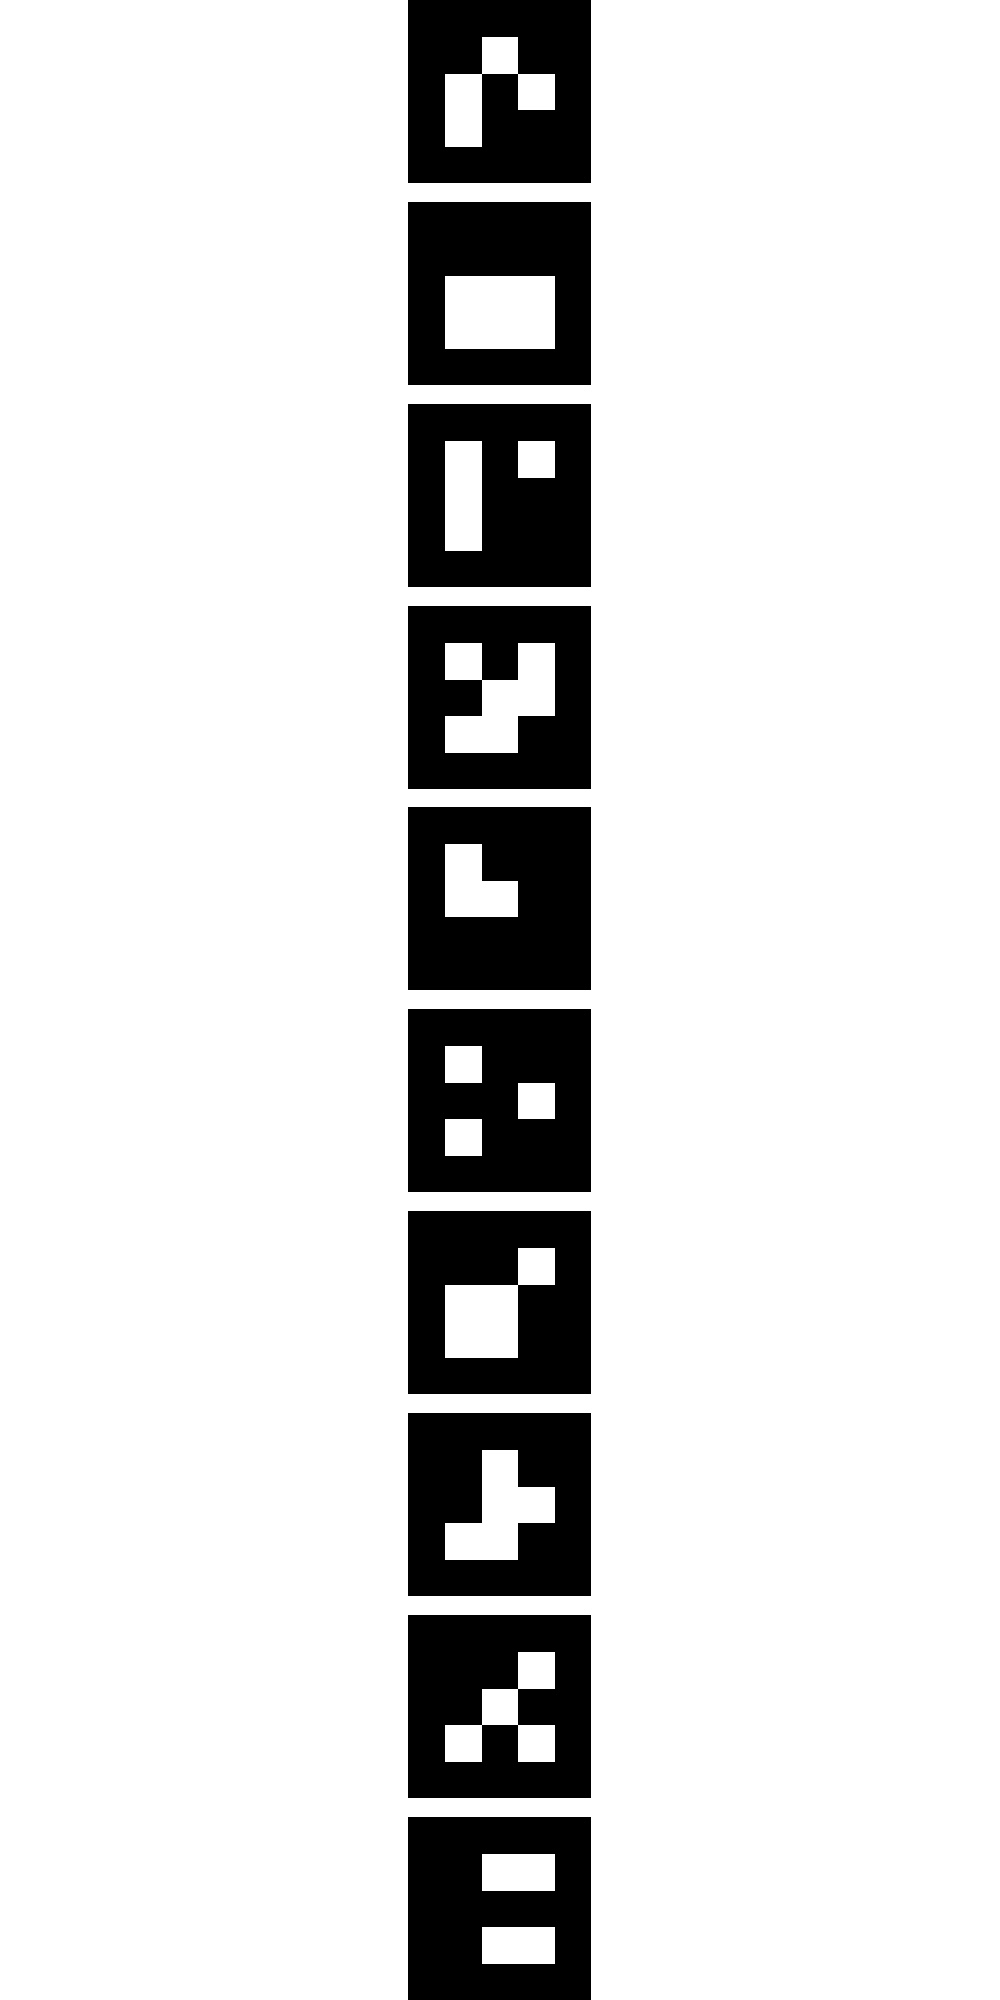
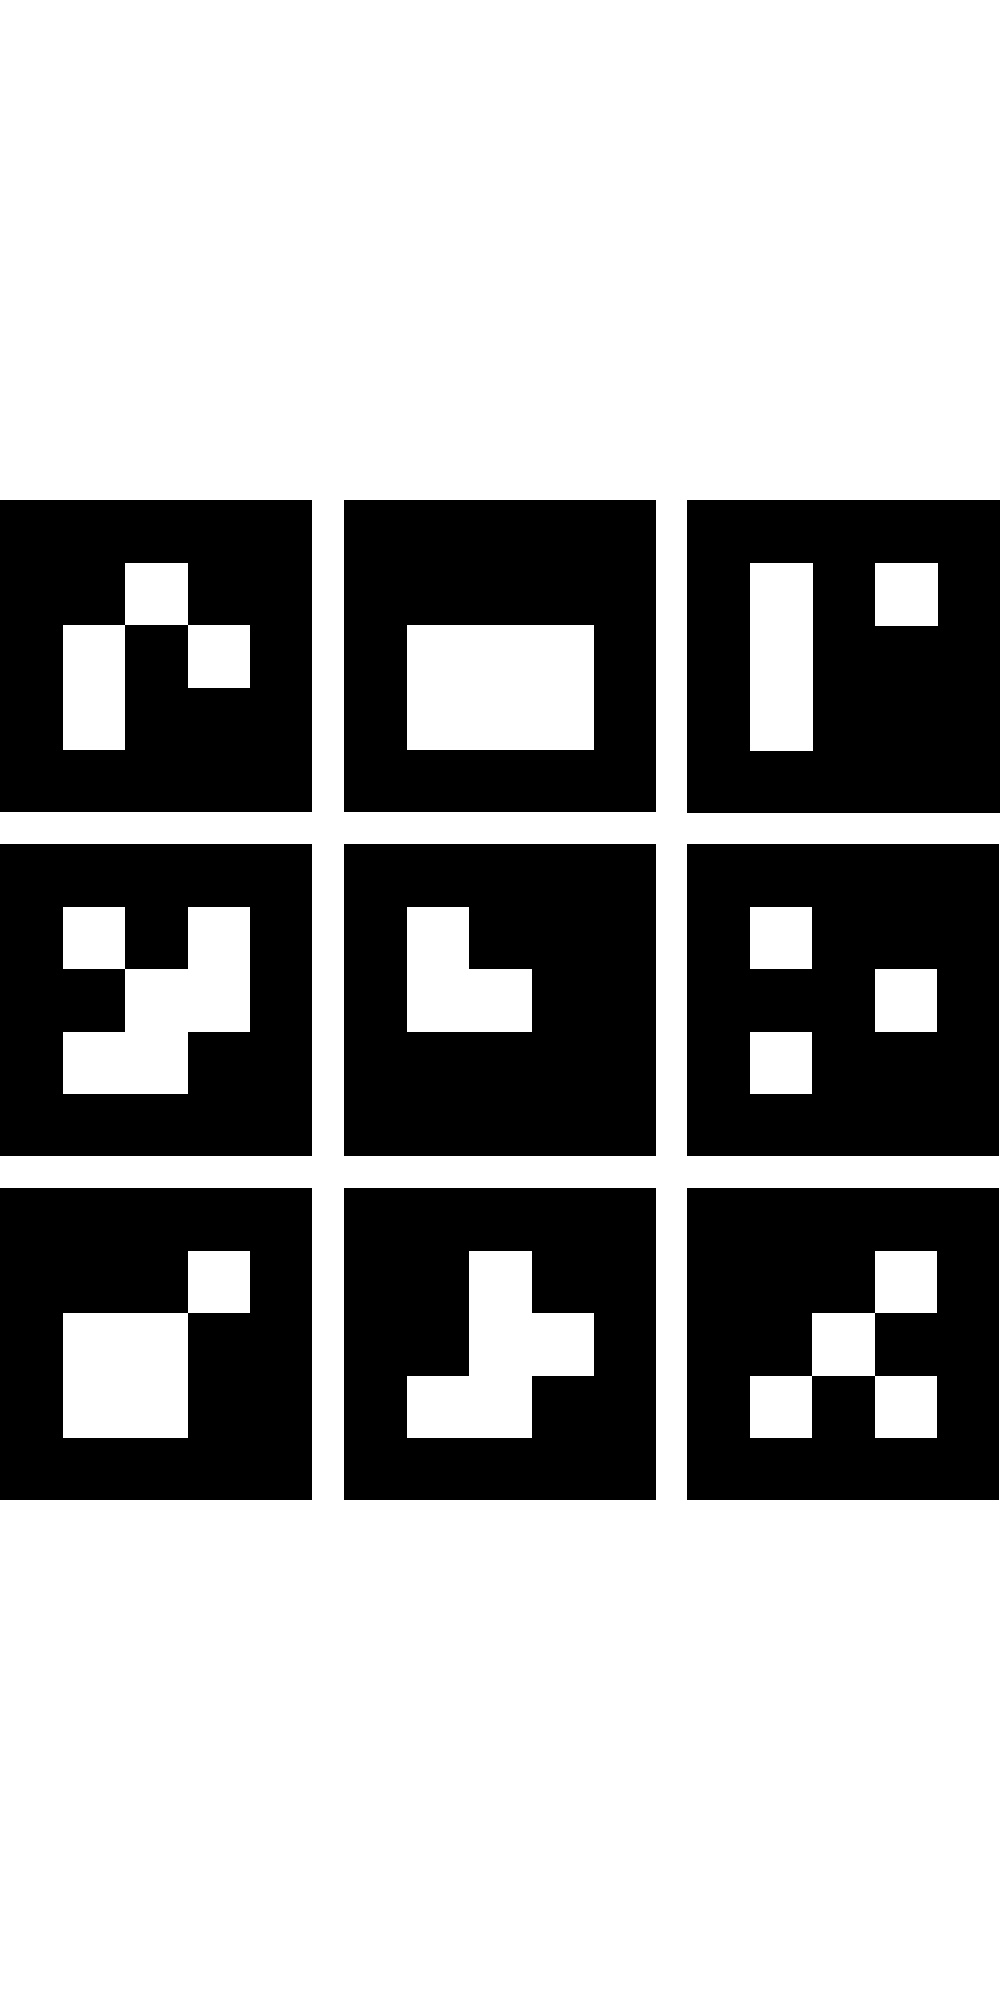
add collect data readme

diff --git a/Deep Learning/testCamera.py b/Deep Learning/testCamera.py
@@ -1,0 +1,34 @@
+import numpy as np
+import cv2
+import os
+import glob
+import copy
+
+CAMERA_LEFT = 1
+CAMERA_MID = 2
+CAMERA_RIGHT = 3
+
+if __name__ == '__main__':
+    cap_L = cv2.VideoCapture(CAMERA_LEFT)
+    cap_M = cv2.VideoCapture(CAMERA_MID)
+    cap_R = cv2.VideoCapture(CAMERA_RIGHT)
+    flag_L, frame_L = cap_L.read()
+    flag_M, frame_M = cap_M.read()
+    flag_R, frame_R = cap_R.read()
+    if (flag_L and flag_M and flag_R):
+        while(True):
+            flag_L, frame_L = cap_L.read()
+            flag_M, frame_M = cap_M.read()
+            flag_R, frame_R = cap_R.read()
+            frame = np.concatenate((frame_L, frame_M, frame_R), axis=1)
+            frame = cv2.resize(frame, (300, 300))
+            cv2.putText(frame, "Left", (50, 150), 0, 1, (255, 0, 0), 3)
+            cv2.putText(frame, "Mid", (150, 150), 0, 1, (255, 0, 0), 3)
+            cv2.putText(frame, "Right", (250, 150), 0, 1, (255, 0, 0), 3)
+            cv2.imshow('frame', frame)
+            if cv2.waitKey(1) & 0xFF == ord('q'):
+                break
+        cap_1.release()
+        cv2.destroyAllWindows()
+    else:
+        print('Left Camera:%r, Mid Camera:%r, Right Camera:%r' % (flag_L, flag_M, flag_R))

diff --git a/Aruco/Analyze/main.py b/Aruco/Analyze/main.py
@@ -63,15 +63,16 @@ if mode == 'video':
         if c & 0xFF == ord('w'):  # 按 w to view 3D
             cv2.waitKey(3000)
             frame_info = JG.get_frame_info()
-            rayPoint, planeCenter, intersectPoint, dis = JG.ray_intersect(marker_id=12, thickness=0.01)
+            rayPoint, planeCenter, intersectPoint, dis = JG.ray_intersect(marker_id=3, thickness=0.015)
             # Draw In 3D
-            draw.camera()
-            draw.corner(frame_info)
-            draw.tracker_corner(frame_info)
-            draw.port_ray(frame_info)
-            draw.intersect(planeCenter, intersectPoint)
-            draw.show()
-            draw.__init__()
+            # draw.camera()
+            # draw.corner(frame_info)
+            # draw.tracker_corner(frame_info)
+            # draw.port_ray(frame_info)
+            # draw.intersect(planeCenter, intersectPoint)
+            # draw.adjust_lim(intersectPoint, rayPoint)
+            # draw.show()
+            # draw.__init__()
 
     # when everything done , release the capture
     myCam.release()

diff --git a/Aruco/Analyze/analysis_single.py b/Aruco/Analyze/analysis_single.py
@@ -6,15 +6,14 @@ import glob
 import os
 
 
-participant_name = 'test'
+participant_name = 'KuanWen'
 
 camera = 'webcam'
 
 
-pos2marker = {'index_1': 5, 'index_2': 13, 'index_3': 1,
-              'middle_1': 0, 'middle_2': 3, 'middle_3': 12,
-              'ring_1': 6, 'ring_2': 7, 'ring_3': 8,
-              'little_1': 0, 'little_2': 0, 'little_3': 0}
+pos2marker = {'index_1': 1, 'index_2': 3, 'index_3': 5,
+              'middle_1': 12, 'middle_2': 13, 'middle_3': 14,
+              'ring_1': 16, 'ring_2': 17, 'ring_3': 19}
 
 marker2pos = {v: k for k, v in pos2marker.items()}
 
@@ -24,10 +23,11 @@ JG = Jetting_Glasses(cameraMatrix, distCoeffs, need_acc=True)
 draw = Draw3D()
 
 
-def read_panticpant_data(name='', haptic=False):
+def read_panticpant_data(name='', haptic=True):
     if name:
         subTitle = 'haptic' if haptic else 'no_haptic'
         file_name = 'data/csv/%s(%s).csv' % (name, subTitle)
+        print(file_name)
         df = pd.read_csv(file_name, sep='\t')
         return df
 

diff --git a/Aruco/Analyze/board.py b/Aruco/Analyze/board.py
@@ -46,7 +46,7 @@ class ArucoBoard:
 ##################
 if __name__ == '__main__':
     # arucoTrackerBoard = ArucoBoard(nMarkers=8, markerSize=3, markerLength=0.012, markerSeparation=0.003, randomSeed=10)
-    arucoTrackerBoard = ArucoBoard(nMarkers=10, markerSize=3, markerLength=0.012, markerSeparation=0.0012, randomSeed=10, size=(1, 10))
+    arucoTrackerBoard = ArucoBoard(nMarkers=9, markerSize=3, markerLength=0.012, markerSeparation=0.0012, randomSeed=10, size=(3, 3))
     arucoMarkerBoard = ArucoBoard(nMarkers=20, markerSize=3, markerLength=0.012, markerSeparation=0.003, randomSeed=1, size=(2, 10))
     arucoTrackerBoard.saveBoardImage(img_name='TrackerBoard.jpg')
     arucoMarkerBoard.saveBoardImage(img_name='MarkerBoard.jpg')

diff --git a/Aruco/Analyze/jettingGlasses.py b/Aruco/Analyze/jettingGlasses.py
@@ -16,6 +16,7 @@ class Jetting_Glasses:
 
     def __init__(self, cameraMatrix, distCoeffs, need_acc=False):
         self.arucoTrackerBoard = ArucoBoard(nMarkers=10, markerSize=3, markerLength=0.012, markerSeparation=0.0012, randomSeed=10, size=(1, 10))
+        self.arucoTrackerBoard = ArucoBoard(nMarkers=9, markerSize=3, markerLength=0.012, markerSeparation=0.0012, randomSeed=10, size=(3, 3))
         self.arucoMarkerBoard = ArucoBoard(nMarkers=20, markerSize=3, markerLength=0.012, markerSeparation=0.003, randomSeed=1, size=(2, 10))
         self.aruco_dict = self.arucoMarkerBoard.getDict()
         self.tracker_dict = self.arucoTrackerBoard.getDict()

diff --git a/Experiment/lookID.py b/Experiment/lookID.py
@@ -1,0 +1,16 @@
+import os
+import cv2
+from cv2 import aruco
+
+
+aruco_dict = aruco.custom_dictionary(20, 3, 1)
+cap = cv2.VideoCapture(0)
+
+while(True):
+    ret, frame = cap.read()
+    corners, ids, rejectedImgPoints = aruco.detectMarkers(frame, aruco_dict, parameters=aruco.DetectorParameters_create())
+    frame = aruco.drawDetectedMarkers(frame, corners, ids, (255, 0, 255))
+    cv2.imshow('Look IDs', frame)
+    # 若按下 q 鍵則離開
+    if cv2.waitKey(1) & 0xFF == ord('q'):
+        break

diff --git a/Aruco/Analyze/parameters.py b/Aruco/Analyze/parameters.py
@@ -10,8 +10,8 @@ tracker_id_right = 40
 offset_left = -5 * 1.25
 offset_right = 5 * 1.25
 
-tracker_offset_x = markerLength_tracker * 0.5
-tracker_offset_y = (markerLength_tracker + markerSeparation_tracker) * 9 + markerLength_tracker * 0.5
+tracker_offset_y = 1.1 / 100
+tracker_offset_x = 7.4 / 100
 
 NULL_POINT = [np.nan, np.nan, np.nan]
 

diff --git a/Deep Learning/CollectData_Practice.py b/Deep Learning/CollectData_Practice.py
@@ -15,7 +15,7 @@ from testCamera import *
 USER_NAME = ''
 MODE = 1
 
-save_data = True
+save_data = False
 
 LABELS = [
     'index_1', 'index_2', 'index_3',

diff --git a/Experiment/experiment.py b/Experiment/experiment.py
@@ -46,7 +46,7 @@ myCam = MyCam('webcam')
 
 NUM_BLOCK = 1
 NUM_TRIAL = 9
-Debug_Mode = True
+Debug_Mode = False
 FRAME_WIDTH = 800
 FRAME_HEIGHT = 500
 
